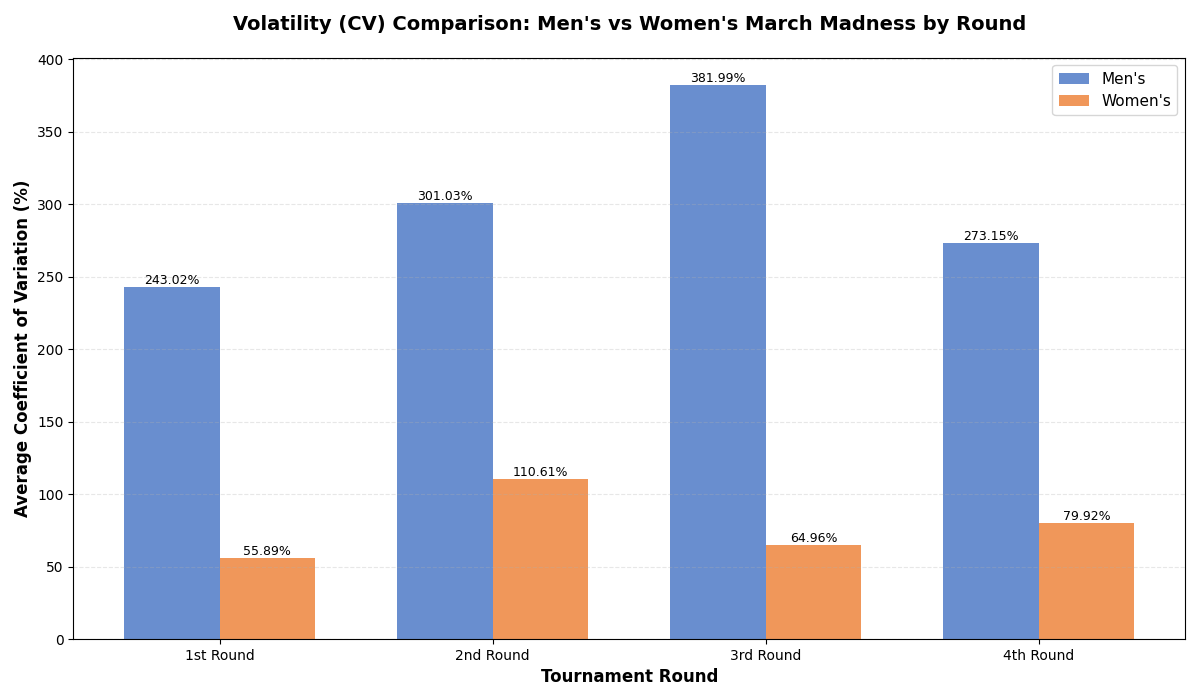
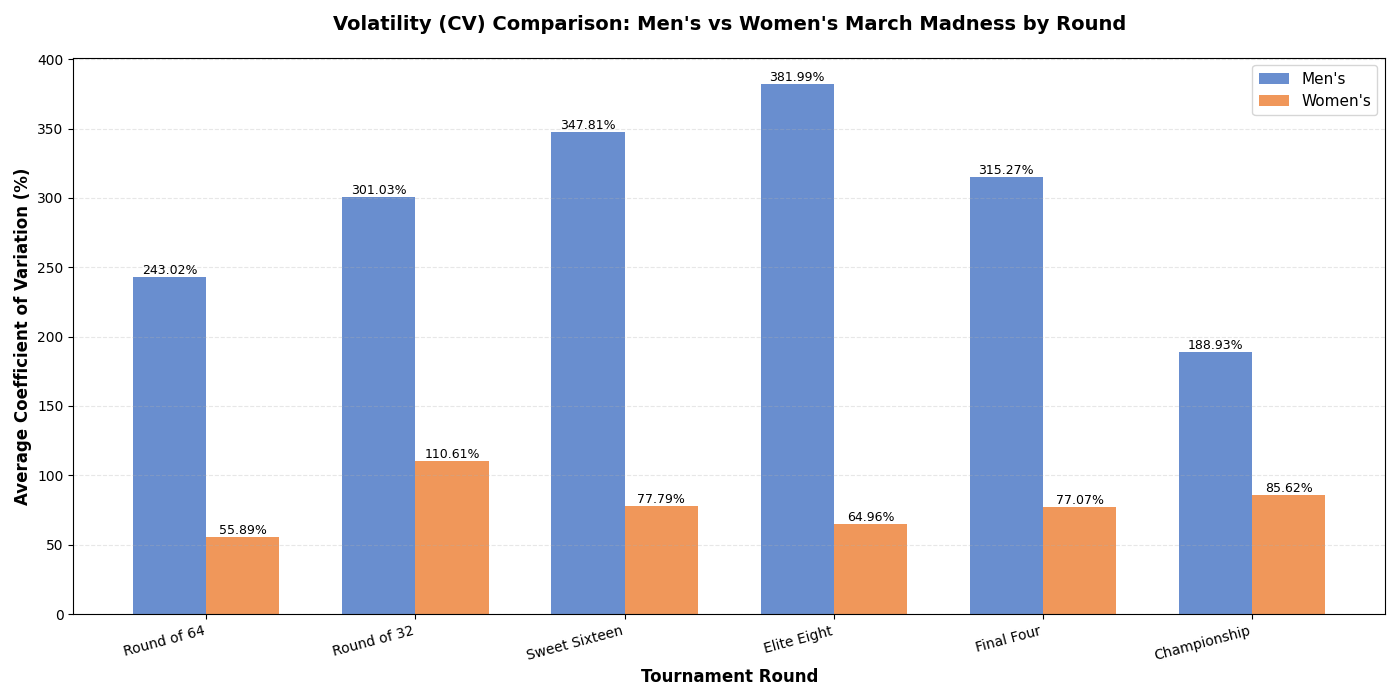
fix hist

diff --git a/histogram.py b/histogram.py
@@ -30,16 +30,17 @@ def load_and_prepare_data():
 def create_histogram(df):
     """Create grouped bar chart showing average CV by round and gender."""
 
-    # Map round names to standardized format
+    # Map round names to standardized tournament format
     round_mapping = {
-        'First': '1st Round',
-        'Second': '2nd Round',
-        'Third': '3rd Round',
-        'Fourth': '4th Round',
-        'Elite Eight': '3rd Round',
-        'Sweet Sixteen': '3rd Round',
-        'Final Four': '4th Round',
-        'Championship': '4th Round'
+        'First': 'Round of 64',
+        'Second': 'Round of 32',
+        'Sweet 16': 'Sweet Sixteen',
+        'Third': 'Sweet Sixteen',
+        'Sweet Sixteen': 'Sweet Sixteen',
+        'Fourth': 'Elite Eight',
+        'Elite Eight': 'Elite Eight',
+        'Final Four': 'Final Four',
+        'Championship': 'Championship'
     }
 
     df['Round_Standardized'] = df['Round'].map(round_mapping)
@@ -51,7 +52,7 @@ def create_histogram(df):
     avg_cv_by_round = df.groupby(['category', 'Round_Standardized'])['avg_combined_cv'].mean().reset_index()
 
     # Prepare data for plotting
-    rounds = ['1st Round', '2nd Round', '3rd Round', '4th Round']
+    rounds = ['Round of 64', 'Round of 32', 'Sweet Sixteen', 'Elite Eight', 'Final Four', 'Championship']
     mens_data = []
     womens_data = []
 
@@ -73,7 +74,7 @@ def create_histogram(df):
     x = np.arange(len(rounds))
     width = 0.35
 
-    fig, ax = plt.subplots(figsize=(12, 7))
+    fig, ax = plt.subplots(figsize=(14, 7))
 
     bars1 = ax.bar(x - width/2, mens_data, width, label="Men's", color='#4472C4', alpha=0.8)
     bars2 = ax.bar(x + width/2, womens_data, width, label="Women's", color='#ED7D31', alpha=0.8)
@@ -84,7 +85,7 @@ def create_histogram(df):
     ax.set_title('Volatility (CV) Comparison: Men\'s vs Women\'s March Madness by Round',
                  fontsize=14, fontweight='bold', pad=20)
     ax.set_xticks(x)
-    ax.set_xticklabels(rounds)
+    ax.set_xticklabels(rounds, rotation=15, ha='right')
     ax.legend(fontsize=11)
     ax.grid(axis='y', alpha=0.3, linestyle='--')
 